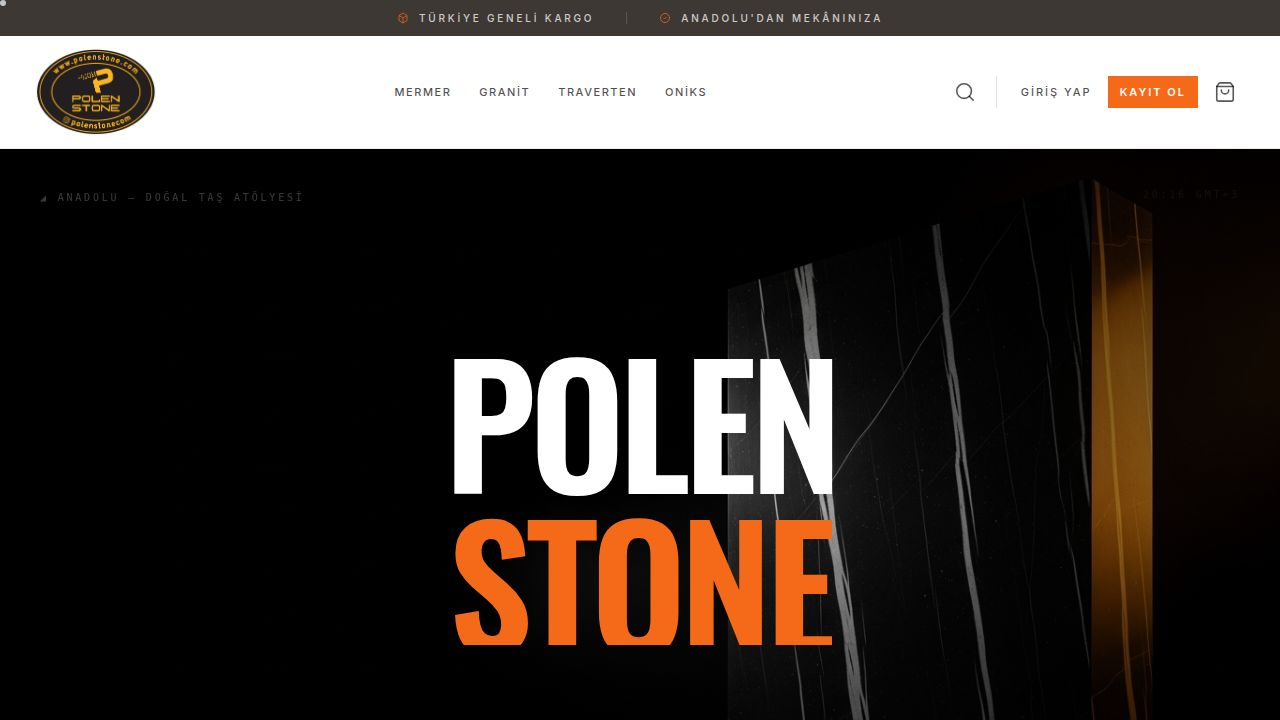
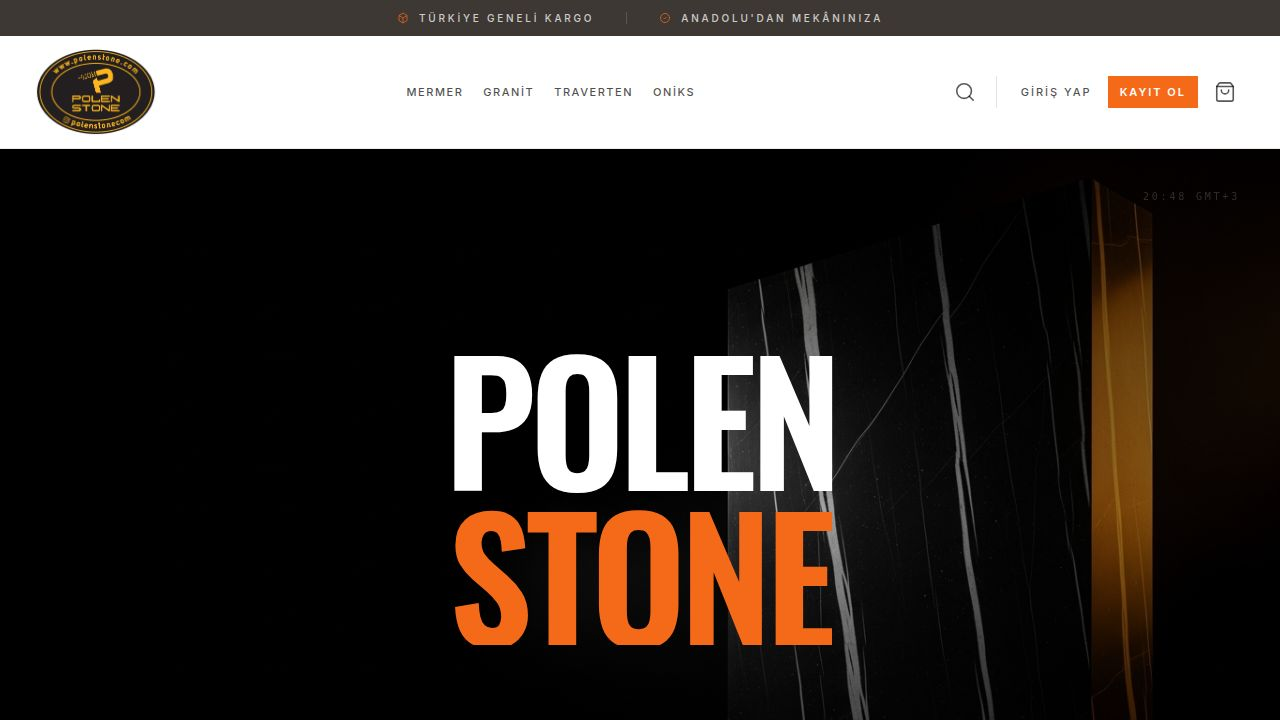
Add a way to test iyzico payment gateway connection
Add a new endpoint and UI button to test iyzico API credentials directly from the admin panel.

Replit-Commit-Author: Agent
Replit-Commit-Session-Id: 9662188d-9011-420a-89e8-3a49ab49b02c
Replit-Commit-Checkpoint-Type: full_checkpoint
Replit-Commit-Event-Id: bb38b93b-0d15-4770-8c36-8aca21e35da3
Replit-Commit-Screenshot-Url: https://storage.googleapis.com/screenshot-production-us-central1/4862d24e-301f-4551-9133-c69c1d532c87/9662188d-9011-420a-89e8-3a49ab49b02c/AplE0Xo
Replit-Helium-Checkpoint-Created: true

diff --git a/client/src/pages/admin/SettingsTab.tsx b/client/src/pages/admin/SettingsTab.tsx
@@ -97,6 +97,15 @@ export default function SettingsPanel() {
   const [callbackCopied, setCallbackCopied] = useState(false);
   const [iyzicoApiKey, setIyzicoApiKey] = useState('');
   const [iyzicoSecretKey, setIyzicoSecretKey] = useState('');
+  const [iyzicoTesting, setIyzicoTesting] = useState(false);
+  const [iyzicoTestResult, setIyzicoTestResult] = useState<{
+    ok: boolean;
+    errorCode?: string;
+    errorMessage?: string;
+    apiKeyLength?: number;
+    secretKeyLength?: number;
+    uri?: string;
+  } | null>(null);
   const [maintenanceSaving, setMaintenanceSaving] = useState(false);
   const [waTesting, setWaTesting] = useState(false);
   const [waTestPhone, setWaTestPhone] = useState('');
@@ -187,6 +196,24 @@ export default function SettingsPanel() {
       setMessage({ type: 'error', text: 'Anahtarlar kaydedilemedi' });
     } finally {
       setIyzicoSaving(false);
+    }
+  };
+
+  const handleIyzicoTestConnection = async () => {
+    setIyzicoTesting(true);
+    setIyzicoTestResult(null);
+    setMessage(null);
+    try {
+      const res = await fetch('/api/admin/iyzico/test', {
+        method: 'POST',
+        credentials: 'include',
+      });
+      const data = await res.json();
+      setIyzicoTestResult(data);
+    } catch {
+      setIyzicoTestResult({ ok: false, errorMessage: 'Test isteği gönderilemedi' });
+    } finally {
+      setIyzicoTesting(false);
     }
   };
 
@@ -617,21 +644,68 @@ export default function SettingsPanel() {
               </div>
             </div>
 
-            <div className="flex items-center justify-between gap-3">
+            <div className="flex flex-wrap items-center justify-between gap-3">
               <div className={`text-xs font-medium ${iyzicoConfig.configured ? 'text-emerald-600' : 'text-red-600'}`} data-testid="text-iyzico-status">
                 {iyzicoConfig.configured ? '✓ Anahtarlar tanımlı — ödeme aktif' : '⚠ Anahtarlar eksik — ödeme alınamaz'}
               </div>
-              <button
-                type="button"
-                onClick={handleIyzicoSaveCredentials}
-                disabled={iyzicoSaving || !iyzicoApiKey.trim() || !iyzicoSecretKey.trim()}
-                data-testid="button-iyzico-save-credentials"
-                className="flex items-center gap-2 px-5 py-2.5 bg-neutral-900 text-white rounded-lg hover:bg-neutral-800 transition-colors text-sm font-medium disabled:opacity-50 disabled:cursor-not-allowed"
-              >
-                {iyzicoSaving ? <Loader2 className="w-4 h-4 animate-spin" /> : <KeyRound className="w-4 h-4" />}
-                Anahtarları Kaydet
-              </button>
+              <div className="flex items-center gap-2">
+                <button
+                  type="button"
+                  onClick={handleIyzicoTestConnection}
+                  disabled={iyzicoTesting || !iyzicoConfig.configured}
+                  data-testid="button-iyzico-test"
+                  className="flex items-center gap-2 px-4 py-2.5 bg-white border border-neutral-300 text-neutral-900 rounded-lg hover:bg-neutral-50 transition-colors text-sm font-medium disabled:opacity-50 disabled:cursor-not-allowed"
+                >
+                  {iyzicoTesting ? <Loader2 className="w-4 h-4 animate-spin" /> : <CheckCircle2 className="w-4 h-4" />}
+                  Bağlantıyı Test Et
+                </button>
+                <button
+                  type="button"
+                  onClick={handleIyzicoSaveCredentials}
+                  disabled={iyzicoSaving || !iyzicoApiKey.trim() || !iyzicoSecretKey.trim()}
+                  data-testid="button-iyzico-save-credentials"
+                  className="flex items-center gap-2 px-5 py-2.5 bg-neutral-900 text-white rounded-lg hover:bg-neutral-800 transition-colors text-sm font-medium disabled:opacity-50 disabled:cursor-not-allowed"
+                >
+                  {iyzicoSaving ? <Loader2 className="w-4 h-4 animate-spin" /> : <KeyRound className="w-4 h-4" />}
+                  Anahtarları Kaydet
+                </button>
+              </div>
             </div>
+
+            {iyzicoTestResult && (
+              <div
+                className={`p-3 rounded-lg border text-xs space-y-1 ${
+                  iyzicoTestResult.ok
+                    ? 'bg-emerald-50 border-emerald-200 text-emerald-800'
+                    : 'bg-red-50 border-red-200 text-red-800'
+                }`}
+                data-testid="text-iyzico-test-result"
+              >
+                <div className="font-semibold">
+                  {iyzicoTestResult.ok
+                    ? '✓ Bağlantı başarılı — iyzico anahtarlarınızı kabul etti.'
+                    : `✗ Bağlantı başarısız${iyzicoTestResult.errorCode ? ` (Kod: ${iyzicoTestResult.errorCode})` : ''}`}
+                </div>
+                {!iyzicoTestResult.ok && iyzicoTestResult.errorMessage && (
+                  <div>Hata: {iyzicoTestResult.errorMessage}</div>
+                )}
+                <div className="text-[11px] opacity-80 font-mono">
+                  uri: {iyzicoTestResult.uri || '-'} • apiKey uzunluk: {iyzicoTestResult.apiKeyLength ?? 0} • secret
+                  uzunluk: {iyzicoTestResult.secretKeyLength ?? 0}
+                </div>
+                {!iyzicoTestResult.ok && iyzicoTestResult.errorCode === '1001' && (
+                  <div className="mt-2 pt-2 border-t border-red-200">
+                    <strong>Olası nedenler:</strong>
+                    <ul className="list-disc list-inside mt-1 space-y-0.5">
+                      <li>Sandbox/test anahtarı kaydedilmiş — canlı uçnokta kabul etmez. iyzico panelinde sekmeyi <strong>Canlı (Production)</strong>'a alıp anahtarı yeniden kopyalayın.</li>
+                      <li>Anahtarda boşluk veya eksik karakter var — iyzico panelinden tek tıkla "Kopyala" butonunu kullanın.</li>
+                      <li>iyzico hesabınız henüz canlı moda geçirilmemiş (onay süreci tamamlanmamış olabilir).</li>
+                      <li>API anahtarı ile gizli anahtar farklı hesaplara ait — ikisi de aynı satırdan alınmalı.</li>
+                    </ul>
+                  </div>
+                )}
+              </div>
+            )}
 
             <div>
               <label className="block text-sm font-medium text-neutral-500 mb-2">

diff --git a/server/iyzico.ts b/server/iyzico.ts
@@ -125,6 +125,70 @@ export async function isIyzicoConfigured(): Promise<boolean> {
   return Boolean(apiKey && secretKey);
 }
 
+export type IyzicoTestResult = {
+  ok: boolean;
+  status?: 'success' | 'failure';
+  errorCode?: string;
+  errorMessage?: string;
+  systemTime?: number;
+  apiKeyLength?: number;
+  secretKeyLength?: number;
+  uri: string;
+};
+
+// Calls iyzico's GET /payment/test endpoint, which only validates the HMAC
+// signature and credentials. Useful as an admin "ping" to confirm the saved
+// API key + secret key are accepted by the live gateway.
+export async function testIyzicoConnection(): Promise<IyzicoTestResult> {
+  const apiKey = await getApiKey();
+  const secretKey = await getSecretKey();
+  const base = {
+    apiKeyLength: apiKey.length,
+    secretKeyLength: secretKey.length,
+    uri: LIVE_URL,
+  };
+  if (!apiKey || !secretKey) {
+    return {
+      ok: false,
+      errorMessage: 'API anahtarları yapılandırılmamış',
+      ...base,
+    };
+  }
+  let client: Iyzipay;
+  try {
+    client = new Iyzipay({ apiKey, secretKey, uri: LIVE_URL });
+  } catch (err) {
+    return {
+      ok: false,
+      errorMessage: err instanceof Error ? err.message : String(err),
+      ...base,
+    };
+  }
+  return new Promise((resolve) => {
+    (client as unknown as { apiTest: { retrieve: (cb: (e: unknown, r: unknown) => void) => void } }).apiTest.retrieve(
+      (err: unknown, result: unknown) => {
+        if (err) {
+          resolve({
+            ok: false,
+            errorMessage: err instanceof Error ? err.message : String(err),
+            ...base,
+          });
+          return;
+        }
+        const r = (result || {}) as { status?: 'success' | 'failure'; errorCode?: string; errorMessage?: string; systemTime?: number };
+        resolve({
+          ok: r.status === 'success',
+          status: r.status,
+          errorCode: r.errorCode,
+          errorMessage: r.errorMessage,
+          systemTime: r.systemTime,
+          ...base,
+        });
+      },
+    );
+  });
+}
+
 export async function createCheckoutFormInitialize(
   req: IyzicoCheckoutFormInitializeRequest,
 ): Promise<IyzicoCheckoutFormInitializeResponse> {

diff --git a/server/routes.ts b/server/routes.ts
@@ -38,6 +38,7 @@ import {
   createCheckoutFormInitialize,
   retrieveCheckoutForm,
   isIyzicoConfigured,
+  testIyzicoConnection,
   type IyzicoBasketItem,
 } from "./iyzico";
 import { sendInvoiceToBizimHesap } from "./bizimhesap";
@@ -2344,6 +2345,24 @@ export async function registerRoutes(
     } catch (error) {
       console.error('[iyzico config] error:', error);
       res.status(500).json({ error: 'iyzico ayarları alınamadı' });
+    }
+  });
+
+  app.post("/api/admin/iyzico/test", requireAdmin, async (_req, res) => {
+    try {
+      const result = await testIyzicoConnection();
+      console.log('[iyzico] connection test:', {
+        ok: result.ok,
+        status: result.status,
+        errorCode: result.errorCode,
+        errorMessage: result.errorMessage,
+        apiKeyLength: result.apiKeyLength,
+        secretKeyLength: result.secretKeyLength,
+      });
+      res.json(result);
+    } catch (error) {
+      console.error('[iyzico test] error:', error);
+      res.status(500).json({ error: 'Test çağrısı başarısız' });
     }
   });
 